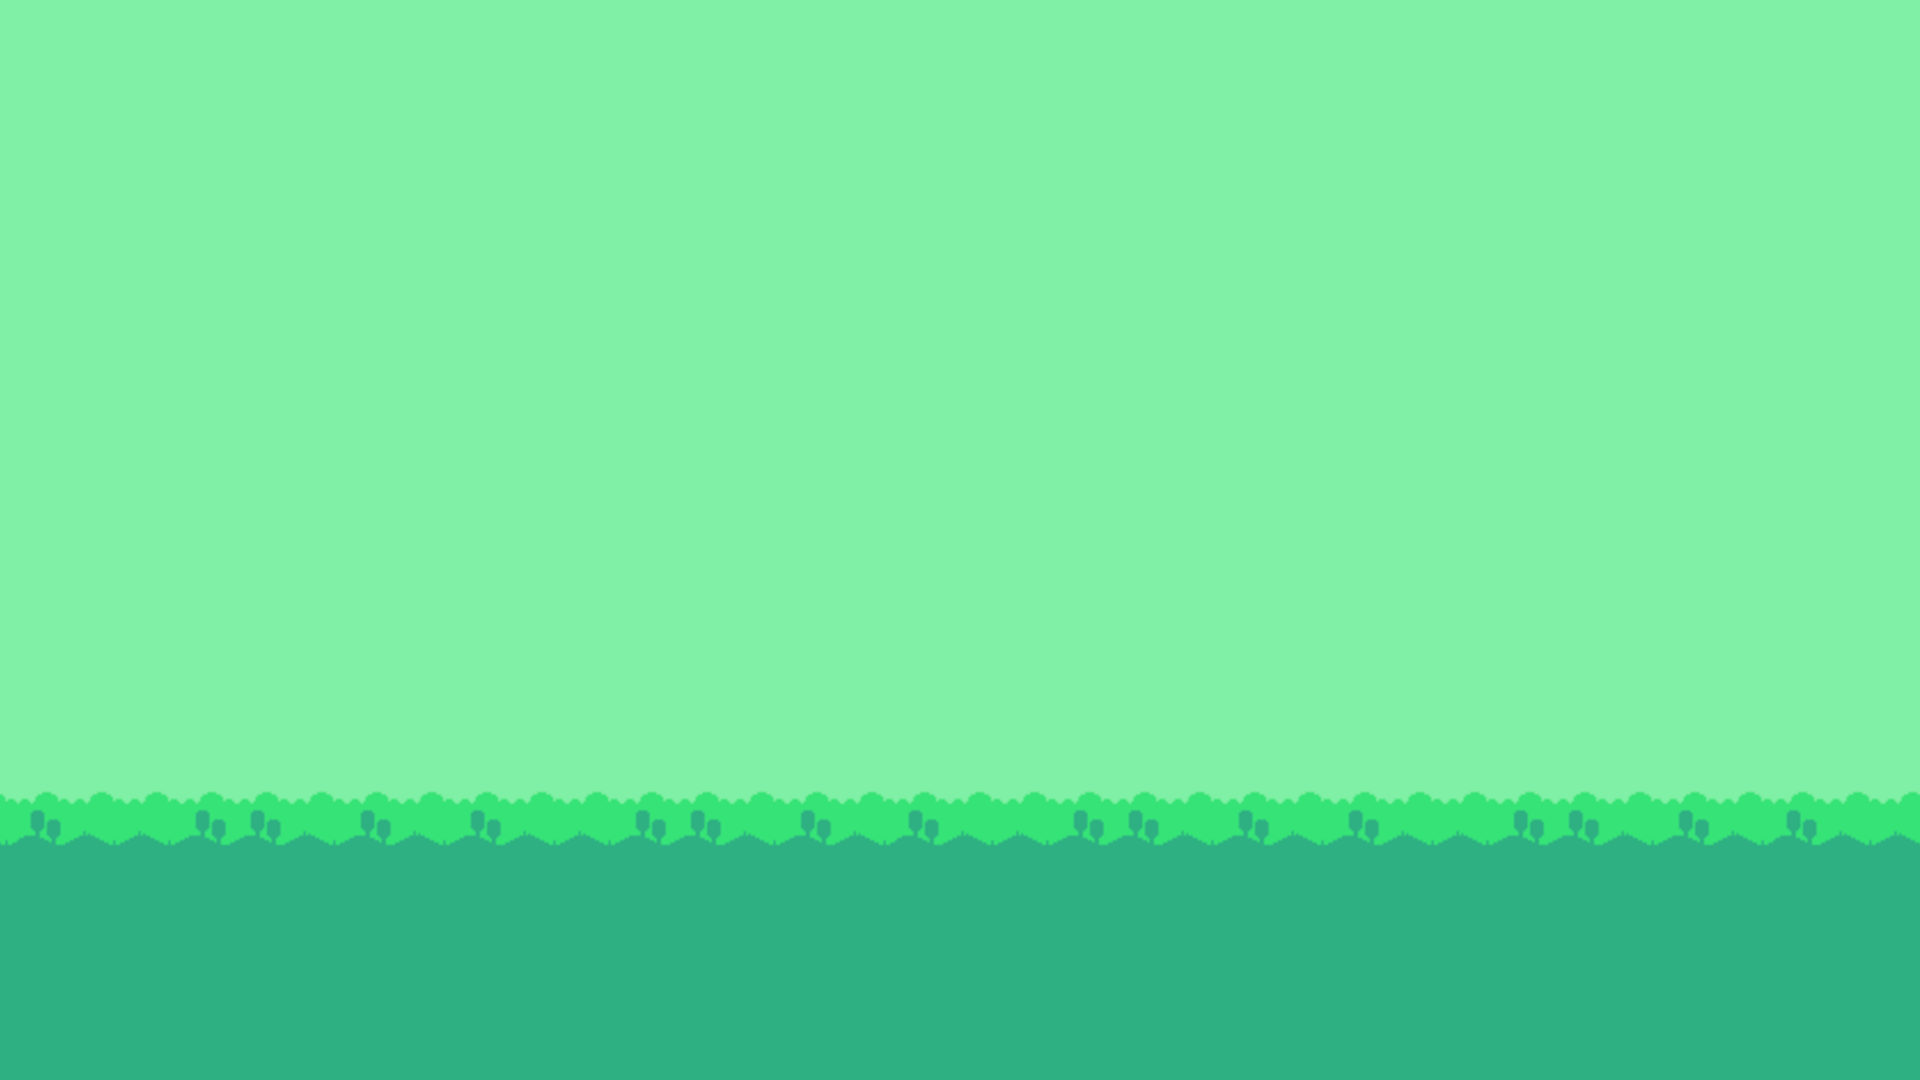
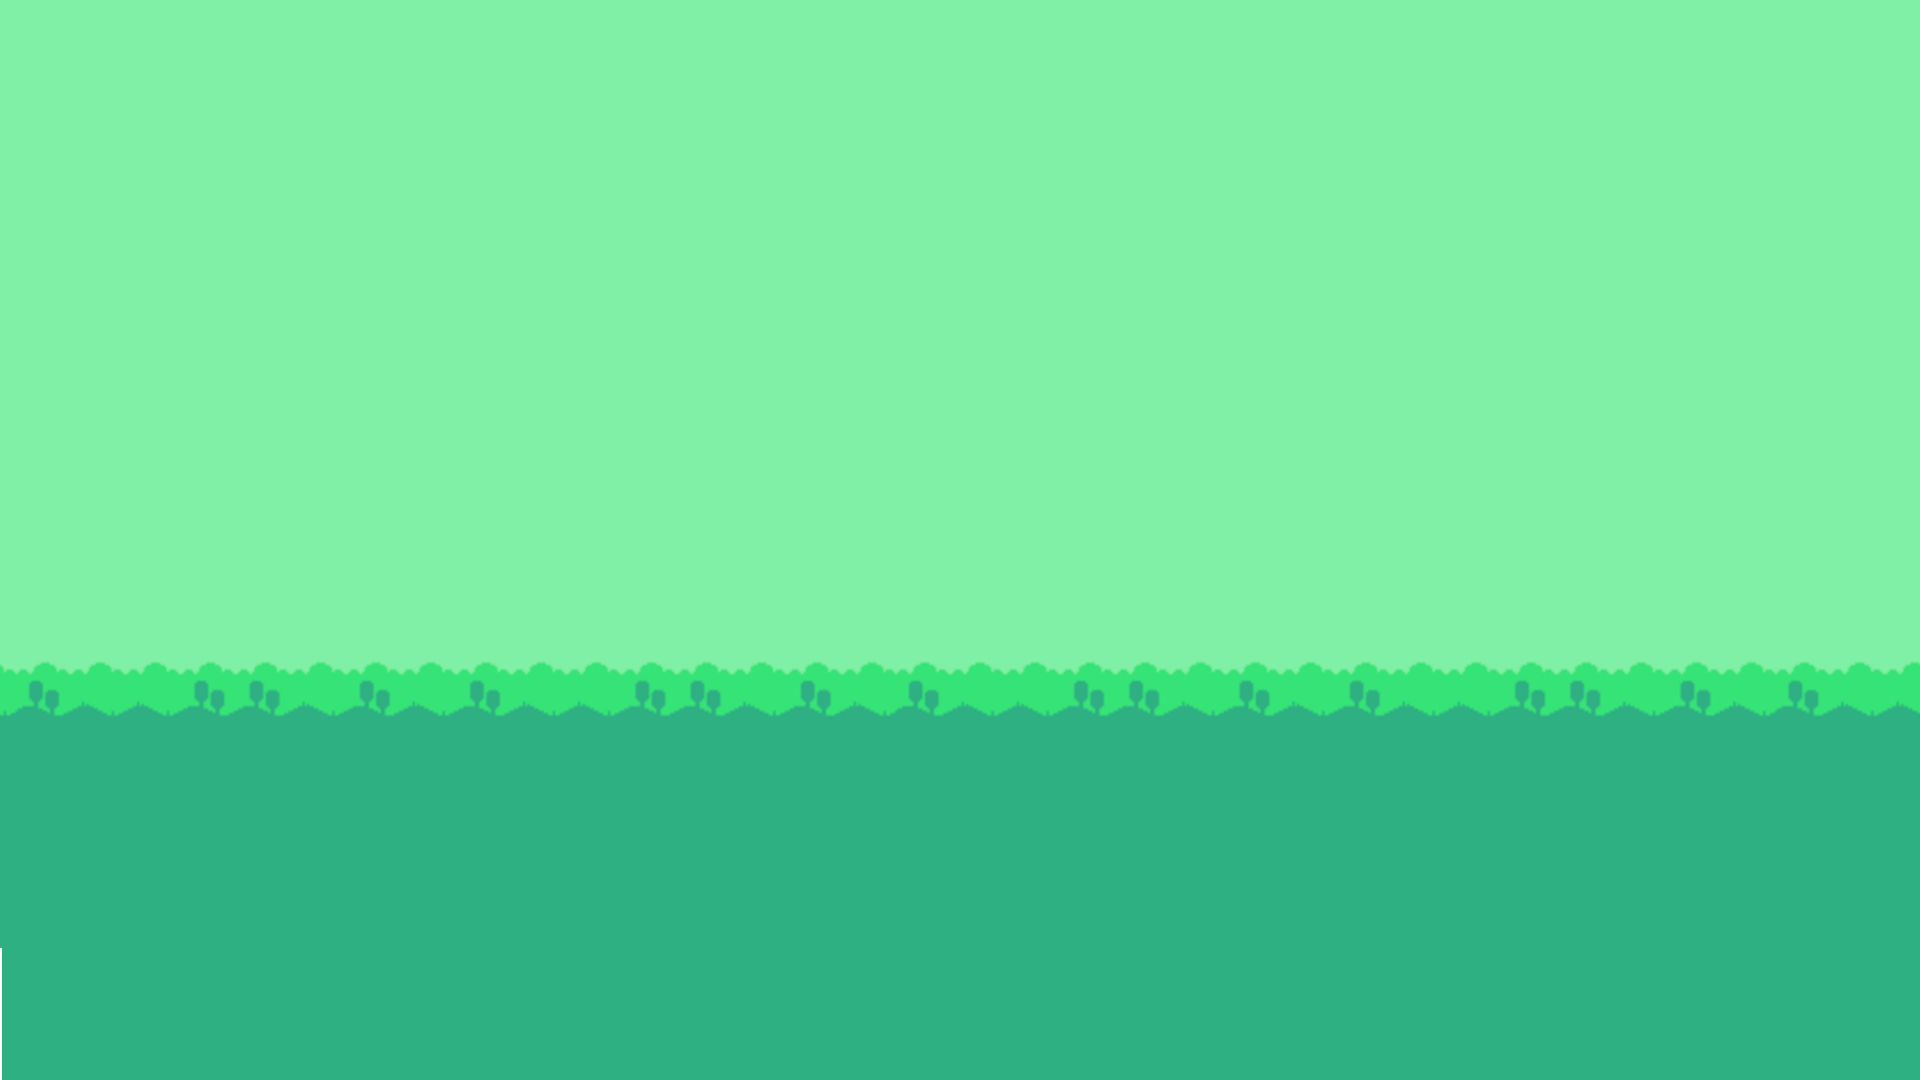
Machine finalizada

Changed region(s): [[0.0, 0.6111, 1.0, 0.7944]]

diff --git a/JS/machineJS.js b/JS/machineJS.js
@@ -1,0 +1,59 @@
+function calcular() {
+    char.innerHTML = `<img style="animation-interation-count: 1;" src="./Assets/characterdamage.gif" alt="">`; // altera o gif do personagem/ botão
+    var inputValue = document.getElementById('inputValue').value; // obtém o valor de entrada
+    var inputBase = document.getElementById('inputBase').value; // obtém a base de entrada
+
+    // valida a entrada de acordo com a base selecionada
+    if (!validarEntrada(inputValue, inputBase)) {
+        alert('Por favor, insira um número válido para a base selecionada.');
+        return;
+    }
+
+    // converte o valor para decimal, com base na base de entrada selecionada
+    var decimalValue = parseInt(inputValue, inputBase === 'hexadecimal' ? 16 : inputBase === 'octal' ? 8 : inputBase === 'binario' ? 2 : 10);
+    var outputHTML = ''; // inicializa a variável para armazenar o html de saída
+
+    // verifica se cada opção de conversão está selecionada e adiciona o resultado ao html de saída
+    if (document.getElementById('convertDecimal').checked) {
+        output.style.display = 'block'; // exibe a saída
+        outputHTML += `<p>${decimalValue}<sub>Decimal</sub></p>`; // adiciona o resultado ao html
+    }
+    if (document.getElementById('convertHexadecimal').checked) {
+        output.style.display = 'block'; // exibe a saída
+        outputHTML += `<p>${decimalValue.toString(16).toUpperCase()}<sub>Hexadecimal</sub></p>`; // converte para hexadecimal e adiciona ao html
+    }
+    if (document.getElementById('convertOctal').checked) {
+        output.style.display = 'block'; // exibe a saída
+        outputHTML += `<p>${decimalValue.toString(8)}<sub>Octal</sub></p>`; // converte para octal e adiciona ao html
+    }
+    if (document.getElementById('convertBinario').checked) {
+        output.style.display = 'block'; // exibe a saída
+        outputHTML += `<p>${decimalValue.toString(2)}<sub>Binário</sub></p>`; // converte
+    }
+    document.getElementById('output').innerHTML = outputHTML; // atualiza o conteúdo da saída com o html gerado
+}
+
+// Função para validar a entrada de acordo com a base selecionada
+function validarEntrada(inputValue, inputBase) {
+
+    var validChars = ''; // String para armazenar os caracteres válidos
+
+    // Determina os caracteres válidos com base na base selecionada
+    if (inputBase === 'decimal') {
+        validChars = '0123456789'; // Para base decimal, são válidos os dígitos de 0 a 9
+    } else if (inputBase === 'hexadecimal') {
+        validChars = '0123456789ABCDEFabcdef'; // Para base hexadecimal, são válidos os dígitos de 0 a 9 e as letras de A a F
+    } else if (inputBase === 'octal') {
+        validChars = '01234567'; // Para base octal, são válidos os dígitos de 0 a 7
+    } else if (inputBase === 'binario') {
+        validChars = '01'; // Para base binária, são válidos os dígitos 0 e 1
+    }
+
+    // Verifica se cada caractere da entrada está presente na lista de caracteres válidos
+    for (var i = 0; i < inputValue.length; i++) {
+        if (validChars.indexOf(inputValue[i]) === -1) { // Se o caractere não for encontrado na lista de caracteres válidos
+            return false; // Retorna falso indicando que a entrada é inválida
+        }
+    }
+    return true; // Retorna verdadeiro indicando que a entrada é válida
+}

diff --git a/CSS/adventuresCSS.css b/CSS/adventuresCSS.css
@@ -1,43 +1,143 @@
+@import url('https://fonts.googleapis.com/css2?family=Pixelify+Sans:wght@400..700&display=swap');
+
 body {
     background-image: url('../Assets/Background.png');
     background-size: cover;
     background-repeat: no-repeat;
-    height: 100%;
+    height: 100vh;
     width: 100%;
     padding: 0;
     margin: 0;
     display: flex;
     flex-direction: column;
+    cursor: url(../Assets/cursor.png), auto;
 }
-.upper{
+
+select {
+    border: none;
+    background: none;
+}
+
+input {
+    border: none;
+    background: none;
+    text-align: center;
+    font-family: "Pixelify Sans", sans-serif;
+
+    width: 80px;
+}
+
+button {
+    border: none;
+    background: none;
+    height: 150px;
+    width: 150px;
+    margin: 0;
+    cursor: url(../Assets/cursor.png), auto;
+}
+
+.upper {
     height: 30%;
     width: 100%;
+    display: flex;
+    flex-direction: column;
+    align-items: center;
+    font-family: "Pixelify Sans", sans-serif;
+    text-shadow:
+        -2px -2px 0 black,
+        2px -2px 0 black,
+        -2px 2px 0 black,
+        2px 2px 0 black;
+    color: white;
 }
-.middle{
-    height: 40%;
-    width: 100%;
+
+.inp {
+    display: flex;
+    flex-direction: row;
+    justify-content: center;
+    gap: 2%;
 }
-.bottom{
+
+.danoinp {
+    background-image: url(../Assets/button_rectangle_depth_border.png);
+    background-size: contain;
+    background-position: center;
+    background-repeat: no-repeat;
     display: flex;
     flex-direction: column;
     justify-content: center;
-    align-items: end;
+    align-items: center;
+    width: 130px;
+}
+
+.buttonbg {
+    background-image: url(../Assets/button_rectangle_depth_gradient.png);
+    background-size: cover;
+    padding: 10px;
+}
+
+.middle {
+    height: 40%;
+    width: 100%;
+    display: flex;
+    flex-direction: column;
+    align-items: center;
+    justify-content: end;
+    font-family: "Pixelify Sans", sans-serif;
+    font-size: 35px;
+    text-shadow:
+        -2px -2px 0 black,
+        2px -2px 0 black,
+        -2px 2px 0 black,
+        2px 2px 0 black;
+    color: white;
+}
+
+.bottom {
+    display: flex;
+    flex-direction: column;
+    justify-content: center;
+    align-items: center;
     height: 30%;
     width: 100%;
+    align-self: flex-end;
 }
-.ground{
+
+.ground {
     width: 100%;
     display: flex;
     flex-direction: row;
-    align-items: flex-end;
     justify-content: center;
 }
-.tileGround{
+
+.tileGround {
     height: 75px;
     width: 75px;
     margin: 0;
 }
-img{
+
+img {
     height: 100%;
     width: 100%;
+}
+
+.character {
+    height: 150px;
+    width: 150px;
+    margin: 0;
+}
+
+.dano {
+    font-family: "Pixelify Sans", sans-serif;
+    font-size: 3rem;
+    text-shadow:
+        -2px -2px 0 black,
+        2px -2px 0 black,
+        -2px 2px 0 black,
+        2px 2px 0 black;
+    color: white;
+}
+sub{
+    font-size: 0.5em;
+    vertical-align: sub;
 }

diff --git a/index.html b/index.html
@@ -4,15 +4,38 @@
 <head>
     <meta charset="UTF-8">
     <meta name="viewport" content="width=device-width, initial-scale=1.0">
-    <title>Adventure's Machine</title>
+    <title>Adventurer's Machine</title>
     <link rel="stylesheet" href="./CSS/adventuresCSS.css">
 </head>
 
 <body>
-    <div class="upper"></div>
-    <div class="middle"></div>
+    <div class="upper">
+        <h1>Adventurer's Machine</h1>
+        <div class="inp">
+            <div class="danoinp"><input type="text" id="inputValue"></div>
+            <div class="buttonbg">
+                <select id="inputBase">
+                    <option value="decimal">Decimal</option>
+                    <option value="hexadecimal">Hexadecimal</option>
+                    <option value="octal">Octal</option>
+                    <option value="binario">Binario</option>
+                </select>
+            </div>
+        </div>
+        <h1>Converta seu dano para</h1>
+        <div>
+        <input type="checkbox" id="convertDecimal"><label for="convertDecimal">Decimal</label>
+        <input type="checkbox" id="convertHexadecimal"><label for="convertHexadecimal">Hexadecimal</label>
+        <input type="checkbox" id="convertOctal"><label for="convertOctal">Octal</label>
+        <input type="checkbox" id="convertBinario"><label for="convertBinario">Binário</label>
+        </div>
+    </div>
+    <div class="middle">
+        <div id="output"></div>
+    </div>
     <div class="bottom">
-        <div class="character"><img src="" alt=""></div>
+        <div id="char" class="character"><button onclick="calcular()"><img src="./Assets/character.gif" alt=""></button>
+        </div>
         <div class="ground">
             <div class="tileGround"><img src="./Assets/tile_0001.png" alt=""></div>
             <div class="tileGround"><img src="./Assets/tile_0002.png" alt=""></div>
@@ -41,5 +64,6 @@
         </div>
     </div>
 </body>
+<script src="./JS/machineJS.js"></script>
 
 </html>
